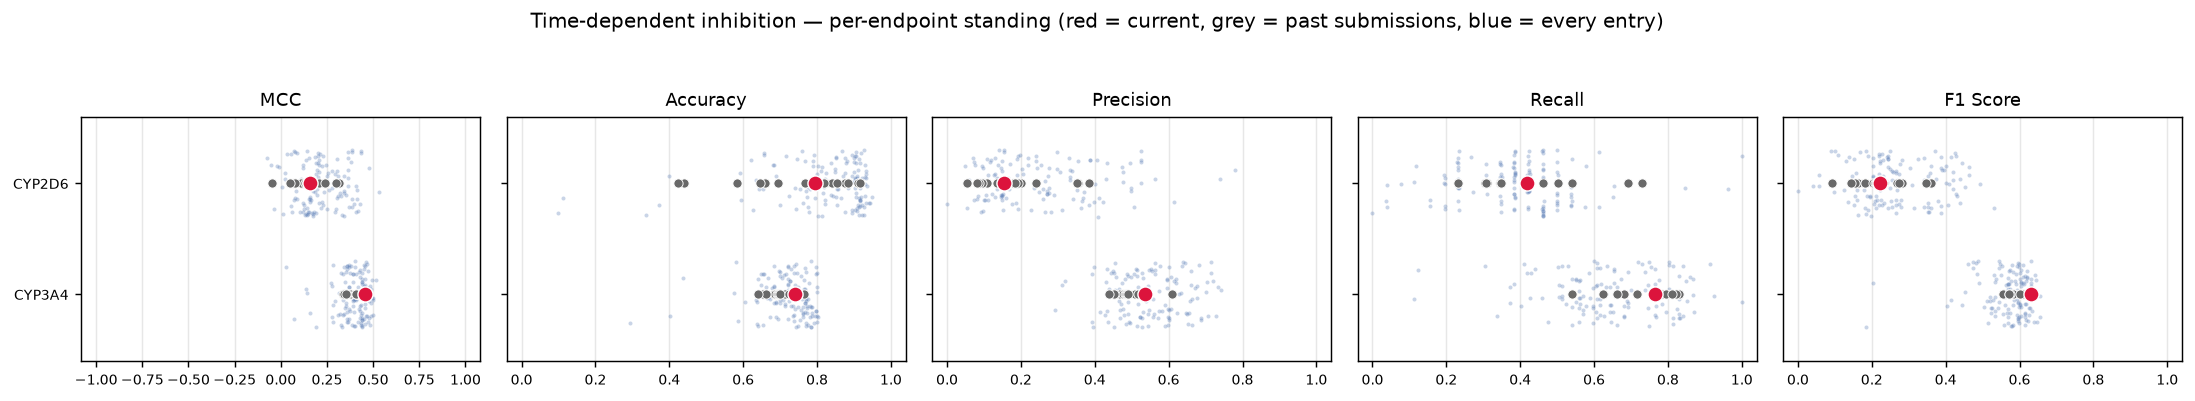
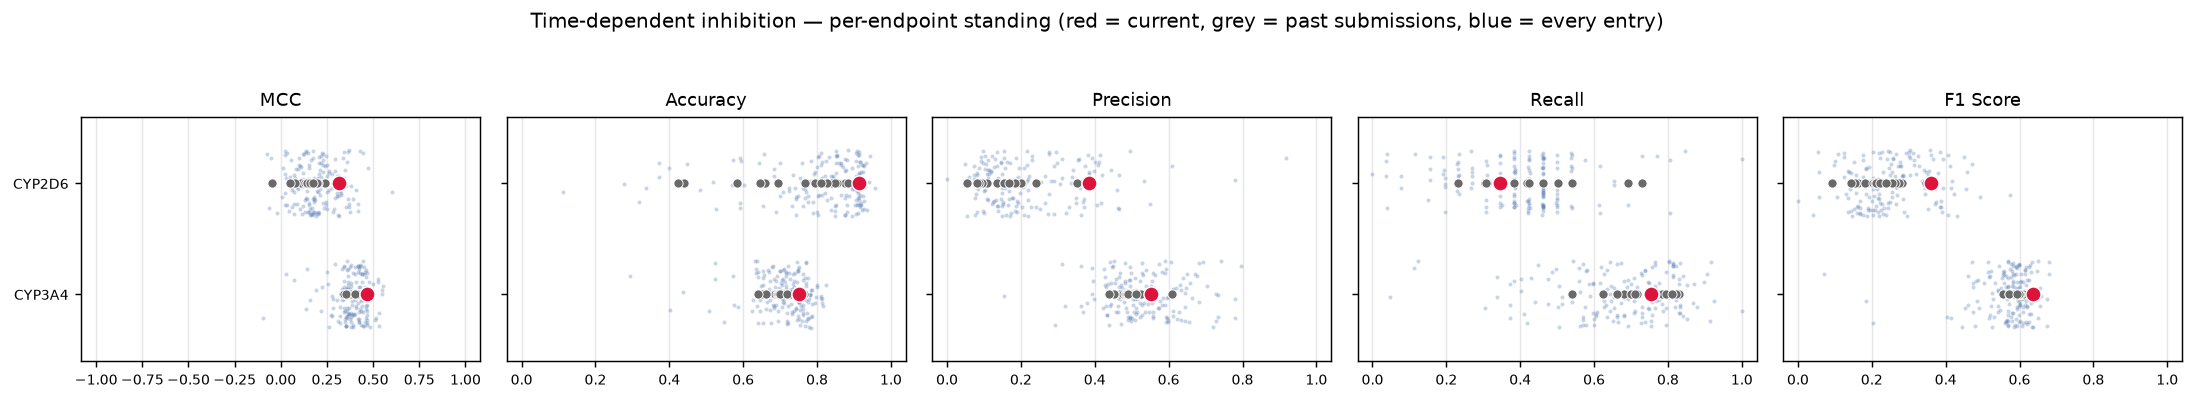
CYP inhibition challenge -- method and results

diff --git a/README.md b/README.md
@@ -29,15 +29,15 @@ Every reported number is out-of-fold. Nothing is scored on data the base learner
 
 <table>
 <thead>
-<tr><th rowspan="2">Endpoint</th><th colspan="3">Cross-validation &mdash; out-of-fold</th><th colspan="4">Blind set &mdash; interim board</th><th colspan="3">Ranking &mdash; live board, of 230 entries</th><th colspan="2">Ranking &mdash; interim board, of 219 entries</th></tr>
+<tr><th rowspan="2">Endpoint</th><th colspan="3">Cross-validation &mdash; out-of-fold</th><th colspan="4">Blind set &mdash; interim board</th><th colspan="3">Ranking &mdash; live board, of 282 entries</th><th colspan="2">Ranking &mdash; interim board, of 219 entries</th></tr>
 <tr><th>MAE</th><th>R²</th><th>Spearman ρ</th><th>ST-RAE</th><th>MAE</th><th>R²</th><th>Spearman ρ</th><th>best</th><th>latest</th><th>percentile</th><th>rank</th><th>percentile</th></tr>
 </thead>
 <tbody>
-<tr><td>CYP1A2</td><td align="right">0.429</td><td align="right">0.671</td><td align="right">0.777</td><td align="right">0.441</td><td align="right">0.656</td><td align="right">0.660</td><td align="right">0.826</td><td align="right">3</td><td align="right">30</td><td align="right">top 13%</td><td align="right">30</td><td align="right">top 14%</td></tr>
-<tr><td>CYP2C9</td><td align="right">0.327</td><td align="right">0.667</td><td align="right">0.834</td><td align="right">0.380</td><td align="right">0.480</td><td align="right">0.686</td><td align="right">0.851</td><td align="right">6</td><td align="right">31</td><td align="right">top 13%</td><td align="right">20</td><td align="right">top 9%</td></tr>
-<tr><td>CYP2D6</td><td align="right">0.712</td><td align="right">0.585</td><td align="right">nan</td><td align="right">0.653</td><td align="right">1.141</td><td align="right">0.290</td><td align="right">0.449</td><td align="right">33</td><td align="right">41</td><td align="right">top 18%</td><td align="right">37</td><td align="right">top 17%</td></tr>
-<tr><td>CYP3A4</td><td align="right">0.320</td><td align="right">0.828</td><td align="right">nan</td><td align="right">0.386</td><td align="right">0.475</td><td align="right">0.743</td><td align="right">0.863</td><td align="right">14</td><td align="right">14</td><td align="right">top 6%</td><td align="right">23</td><td align="right">top 11%</td></tr>
-<tr><td><strong>macro average</strong></td><td align="right"><strong>0.447</strong></td><td align="right"><strong>0.688</strong></td><td align="right"><strong>nan</strong></td><td align="right"><strong>0.465</strong></td><td align="right"><strong>0.688</strong></td><td align="right"><strong>0.595</strong></td><td align="right"><strong>0.747</strong></td><td align="right"><strong>13</strong></td><td align="right"><strong>28</strong></td><td align="right"><strong>top 12%</strong></td><td align="right"><strong>28</strong></td><td align="right"><strong>top 13%</strong></td></tr>
+<tr><td>CYP1A2</td><td align="right">0.582</td><td align="right">0.388</td><td align="right">0.626</td><td align="right">0.441</td><td align="right">0.656</td><td align="right">0.660</td><td align="right">0.826</td><td align="right">3</td><td align="right">17</td><td align="right">top 6%</td><td align="right">30</td><td align="right">top 14%</td></tr>
+<tr><td>CYP2C9</td><td align="right">0.393</td><td align="right">0.536</td><td align="right">0.726</td><td align="right">0.380</td><td align="right">0.480</td><td align="right">0.686</td><td align="right">0.851</td><td align="right">6</td><td align="right">33</td><td align="right">top 12%</td><td align="right">20</td><td align="right">top 9%</td></tr>
+<tr><td>CYP2D6</td><td align="right">0.899</td><td align="right">0.324</td><td align="right">nan</td><td align="right">0.653</td><td align="right">1.141</td><td align="right">0.290</td><td align="right">0.449</td><td align="right">33</td><td align="right">66</td><td align="right">top 23%</td><td align="right">37</td><td align="right">top 17%</td></tr>
+<tr><td>CYP3A4</td><td align="right">0.447</td><td align="right">0.695</td><td align="right">0.836</td><td align="right">0.386</td><td align="right">0.475</td><td align="right">0.743</td><td align="right">0.863</td><td align="right">14</td><td align="right">37</td><td align="right">top 13%</td><td align="right">23</td><td align="right">top 11%</td></tr>
+<tr><td><strong>macro average</strong></td><td align="right"><strong>0.580</strong></td><td align="right"><strong>0.486</strong></td><td align="right"><strong>0.729</strong></td><td align="right"><strong>0.465</strong></td><td align="right"><strong>0.688</strong></td><td align="right"><strong>0.595</strong></td><td align="right"><strong>0.747</strong></td><td align="right"><strong>13</strong></td><td align="right"><strong>42</strong></td><td align="right"><strong>top 15%</strong></td><td align="right"><strong>28</strong></td><td align="right"><strong>top 13%</strong></td></tr>
 </tbody>
 </table>
 <p><em>The two ranking groups are different boards and their percentiles are not comparable: the live leaderboard scores half the held-out set, the <strong>interim</strong> board scores all of it. The macro row there sits in <strong>Tier 6</strong> of their significance tiering.</em></p>
@@ -46,13 +46,13 @@ Every reported number is out-of-fold. Nothing is scored on data the base learner
 
 <table>
 <thead>
-<tr><th rowspan="2">Endpoint</th><th colspan="2">Cross-validation &mdash; out-of-fold</th><th colspan="3">Blind set &mdash; interim board</th><th colspan="3">Ranking &mdash; live board, of 129 entries</th><th colspan="2">Ranking &mdash; interim board, of 114 entries</th></tr>
+<tr><th rowspan="2">Endpoint</th><th colspan="2">Cross-validation &mdash; out-of-fold</th><th colspan="3">Blind set &mdash; interim board</th><th colspan="3">Ranking &mdash; live board, of 160 entries</th><th colspan="2">Ranking &mdash; interim board, of 114 entries</th></tr>
 <tr><th>MCC</th><th>AUC</th><th>MCC</th><th>Accuracy</th><th>F1</th><th>best</th><th>latest</th><th>percentile</th><th>rank</th><th>percentile</th></tr>
 </thead>
 <tbody>
-<tr><td>CYP2D6</td><td align="right">0.270</td><td align="right">0.719</td><td align="right">0.256</td><td align="right">0.918</td><td align="right">0.298</td><td align="right">13</td><td align="right">85</td><td align="right">top 66%</td><td align="right">26</td><td align="right">top 23%</td></tr>
-<tr><td>CYP3A4</td><td align="right">0.554</td><td align="right">0.864</td><td align="right">0.504</td><td align="right">0.761</td><td align="right">0.671</td><td align="right">3</td><td align="right">27</td><td align="right">top 21%</td><td align="right">3</td><td align="right">top 3%</td></tr>
-<tr><td><strong>macro average</strong></td><td align="right"><strong>0.412</strong></td><td align="right"><strong>0.792</strong></td><td align="right"><strong>0.380</strong></td><td align="right"><strong>0.840</strong></td><td align="right"><strong>0.484</strong></td><td align="right"><strong>14</strong></td><td align="right"><strong>61</strong></td><td align="right"><strong>top 47%</strong></td><td align="right"><strong>6</strong></td><td align="right"><strong>top 5%</strong></td></tr>
+<tr><td>CYP2D6</td><td align="right">0.195</td><td align="right">0.622</td><td align="right">0.256</td><td align="right">0.918</td><td align="right">0.298</td><td align="right">13</td><td align="right">26</td><td align="right">top 16%</td><td align="right">26</td><td align="right">top 23%</td></tr>
+<tr><td>CYP3A4</td><td align="right">0.552</td><td align="right">0.864</td><td align="right">0.504</td><td align="right">0.761</td><td align="right">0.671</td><td align="right">3</td><td align="right">15</td><td align="right">top 9%</td><td align="right">3</td><td align="right">top 3%</td></tr>
+<tr><td><strong>macro average</strong></td><td align="right"><strong>0.373</strong></td><td align="right"><strong>&ndash;</strong></td><td align="right"><strong>0.380</strong></td><td align="right"><strong>0.840</strong></td><td align="right"><strong>0.484</strong></td><td align="right"><strong>14</strong></td><td align="right"><strong>23</strong></td><td align="right"><strong>top 14%</strong></td><td align="right"><strong>6</strong></td><td align="right"><strong>top 5%</strong></td></tr>
 </tbody>
 </table>
 <p><em>The two ranking groups are different boards and their percentiles are not comparable: the live leaderboard scores half the held-out set, the <strong>interim</strong> board scores all of it. The macro row there sits in <strong>Tier 1</strong>, the top tier &mdash; the 26 entries they could not separate from first place.</em></p>
@@ -82,7 +82,7 @@ would put two different quantities on one axis.
 
 ![cross-validation vs the blind set](cv_vs_blind.png)
 
-Reading the figure: on **regression**, 100% of submission-endpoint pairs came out worse on the blind set than in cross-validation (median MAE +0.208); on **TDI**, 82% of submission-endpoint pairs came out worse on the blind set than in cross-validation (median MCC -0.042).
+Reading the figure: on **regression**, 100% of submission-endpoint pairs came out worse on the blind set than in cross-validation (median MAE +0.208); on **TDI**, 77% of submission-endpoint pairs came out worse on the blind set than in cross-validation (median MCC -0.036).
 
 Correlations are quoted per endpoint on purpose. Pooling them measures the gap *between*
 endpoints rather than whether cross-validation tracked a submission's progress — pooled, MCC
